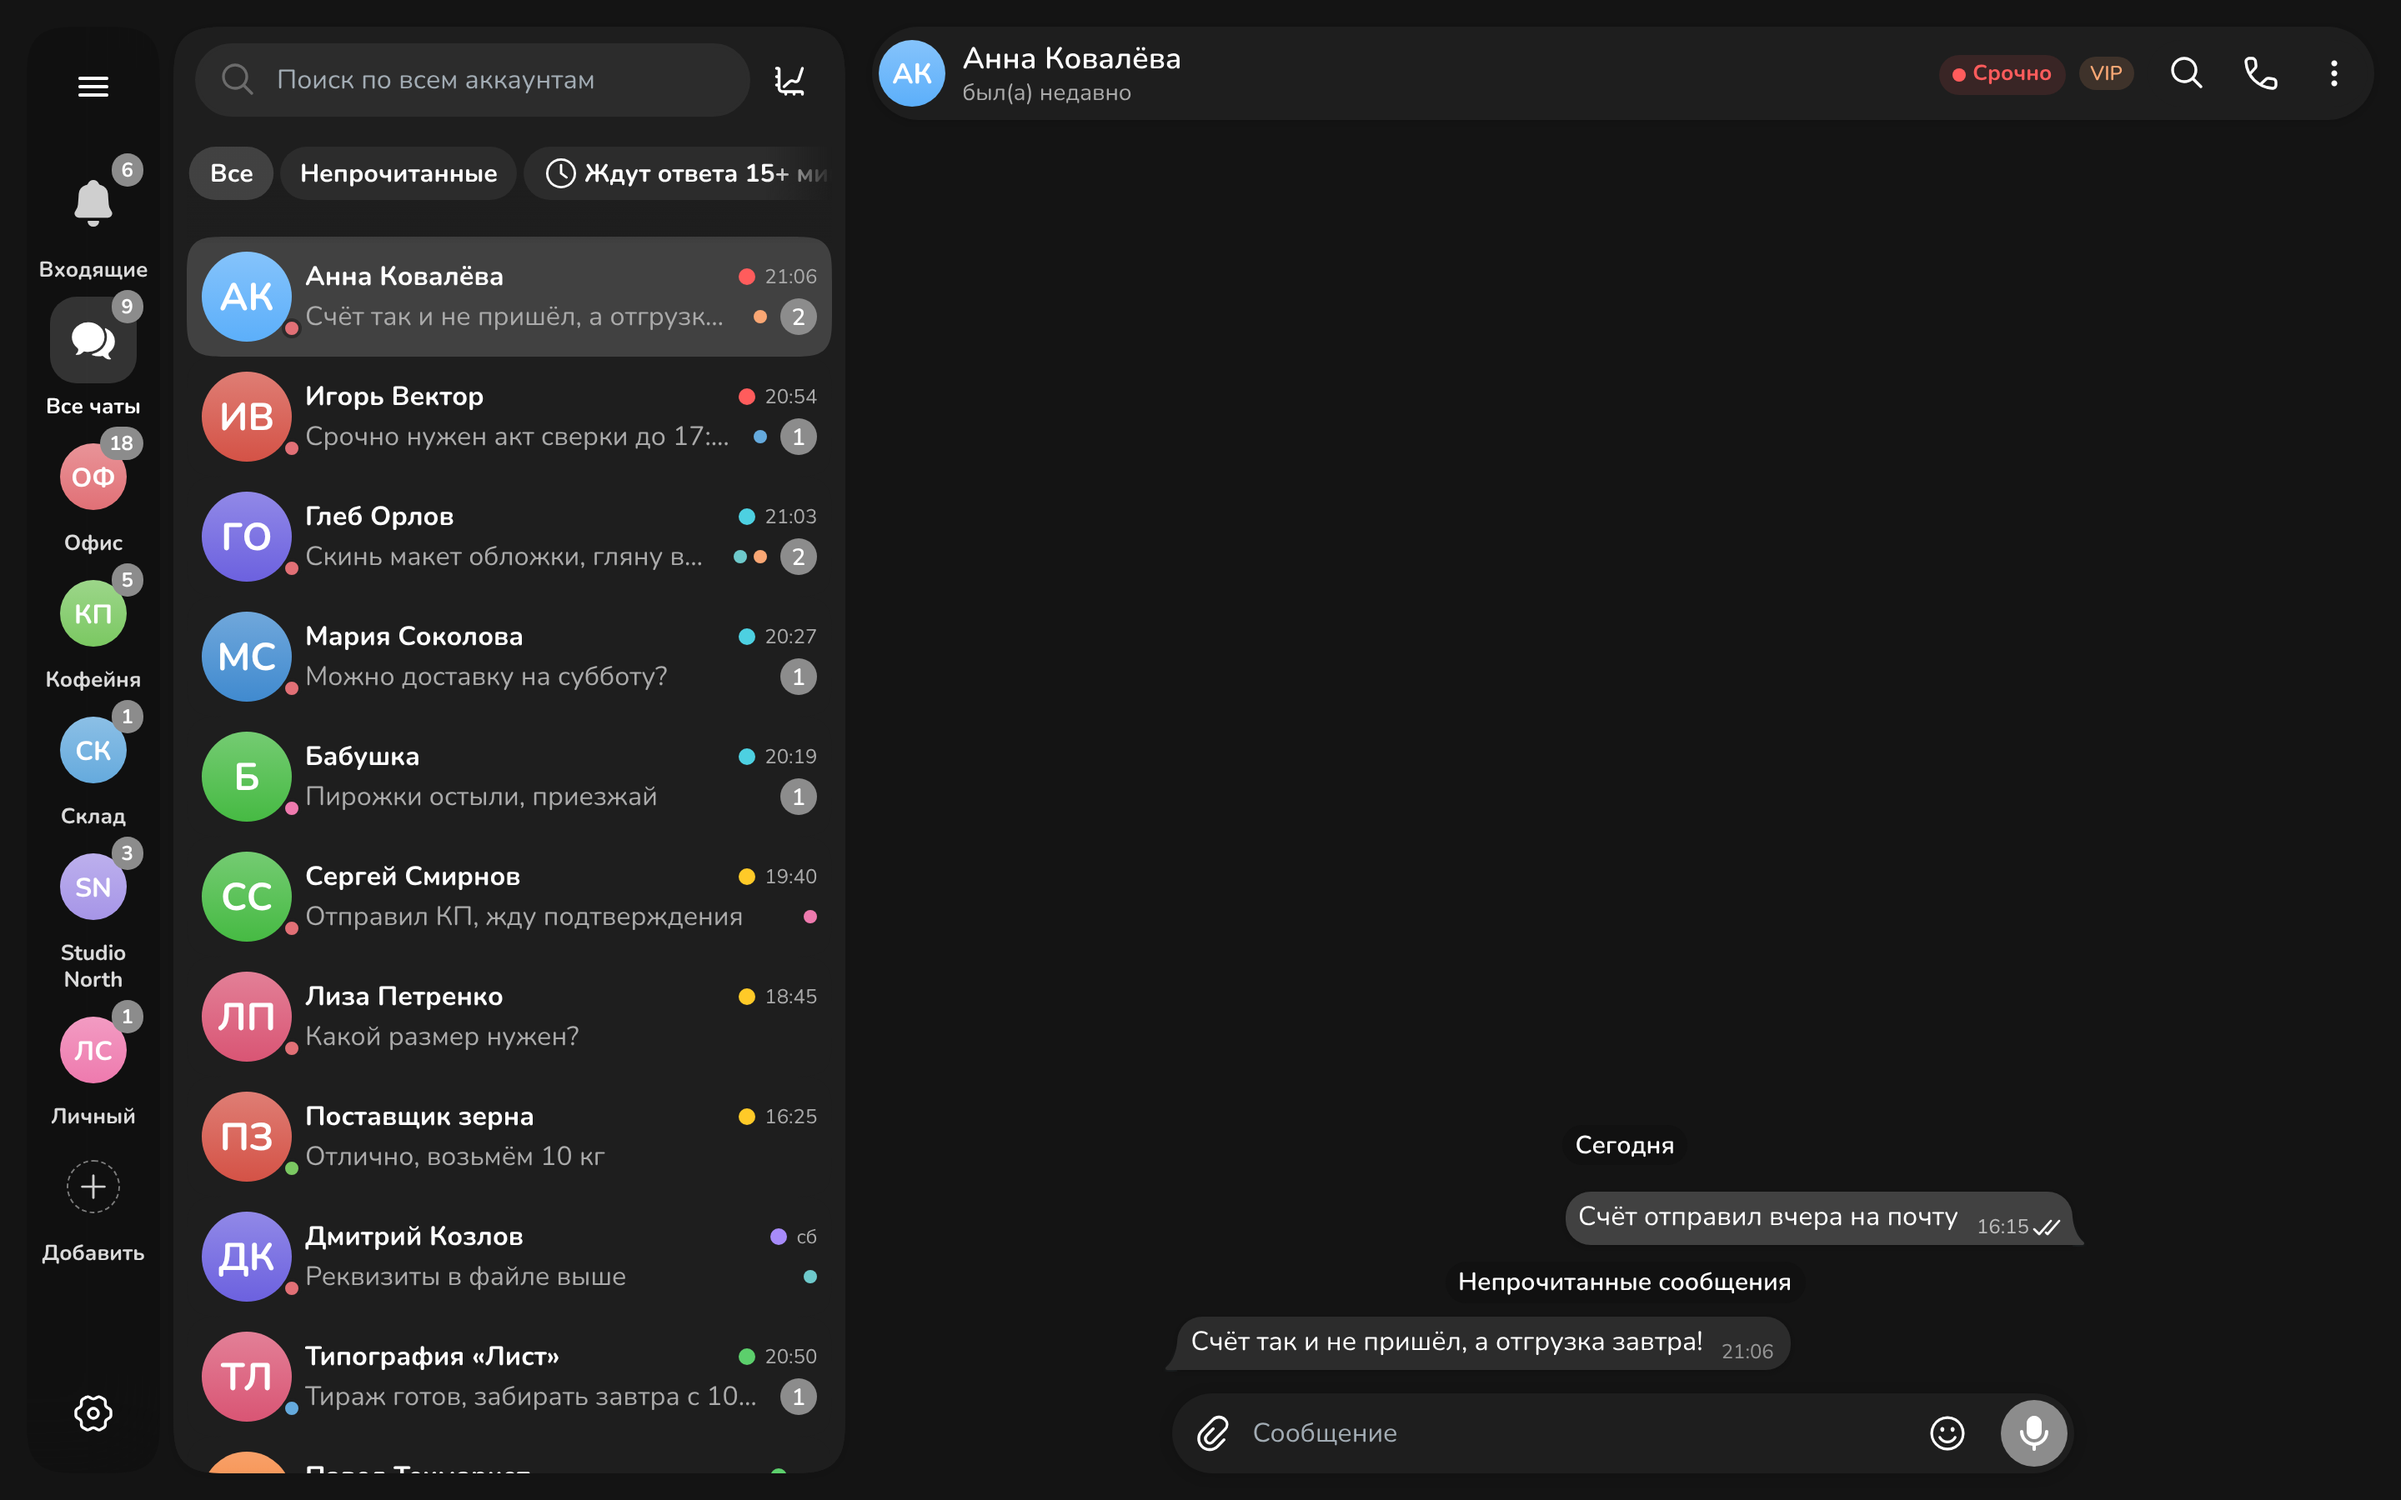
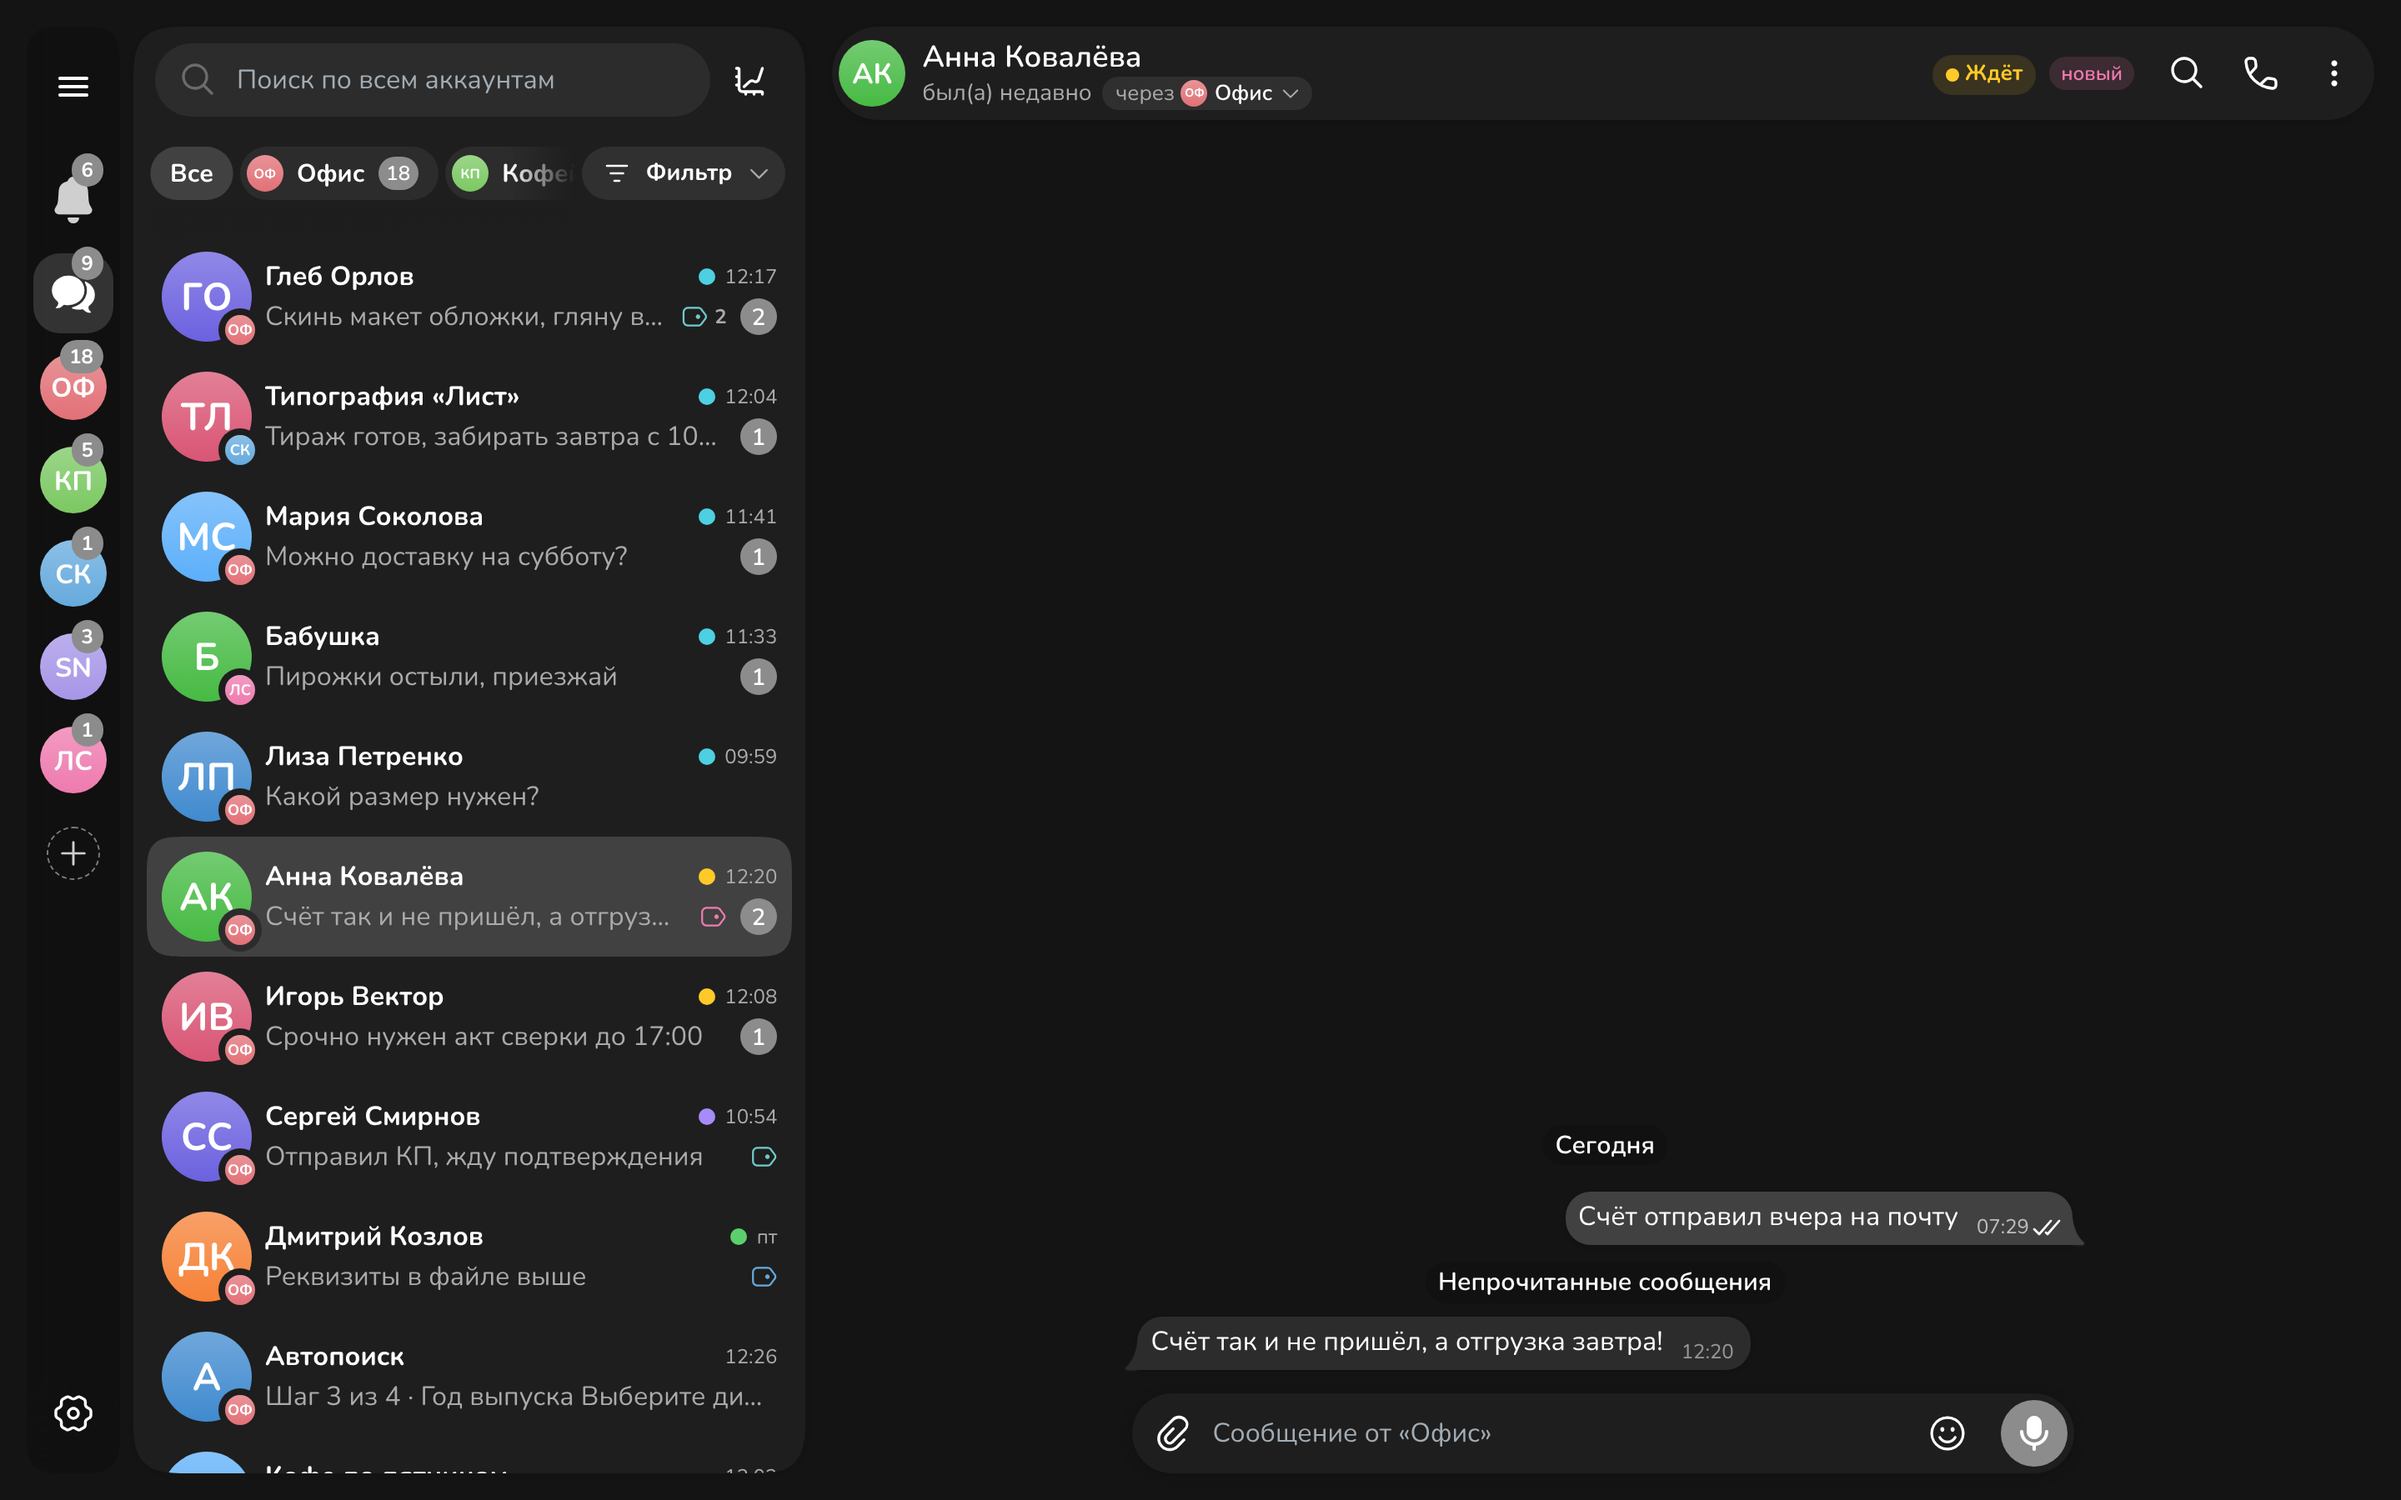
README: свежие скрины Web A (ПК, Android, iPhone, статусы) и новая сетка нативного Android
Claude-Session: https://claude.ai/code/session_01CRM8nJA8MBaCNc2FMH9scf

diff --git a/docs/make-grids.py b/docs/make-grids.py
@@ -62,6 +62,12 @@ GRIDS = {
         ('lite/lite-chat-poll', 'Опрос, стикер, эмодзи'),
         ('lite/lite-group-call', 'Голосовой чат'),
     ]),
+    'grid-phone-native': ('phone', 4, [
+        ('native/chats', 'Чаты всех аккаунтов'),
+        ('native/statuses', 'Статусы и метки'),
+        ('native/calls', 'Звонки'),
+        ('native/templates', 'Шаблоны через «/»'),
+    ]),
     'grid-phone-status': ('phone', 4, [
         ('iphone-status-list', 'Список'),
         ('iphone-status-sort', 'Сортировка'),

diff --git a/README.md b/README.md
@@ -151,6 +151,8 @@
 - **Пароль, скрытые аккаунты, группы аккаунтов, поиск по всем аккаунтам.**
 - Без рекламы, автообновление из этого репозитория.
 
+<p align="center"><img src="docs/screens/grid-phone-native.png" width="100%" alt="Нативный Android: чаты всех аккаунтов, статусы и метки, звонки, шаблоны"></p>
+
 ## Версия на Unigram
 
 **UNI** — отдельная сборка Hivogram для Windows на движке [Unigram](https://github.com/UnigramDev/Unigram): нативное приложение Windows (не браузерное), быстрое и экономное по памяти, с интерфейсом в духе Windows 11. Мультиаккаунт тот же, что в основной версии:
